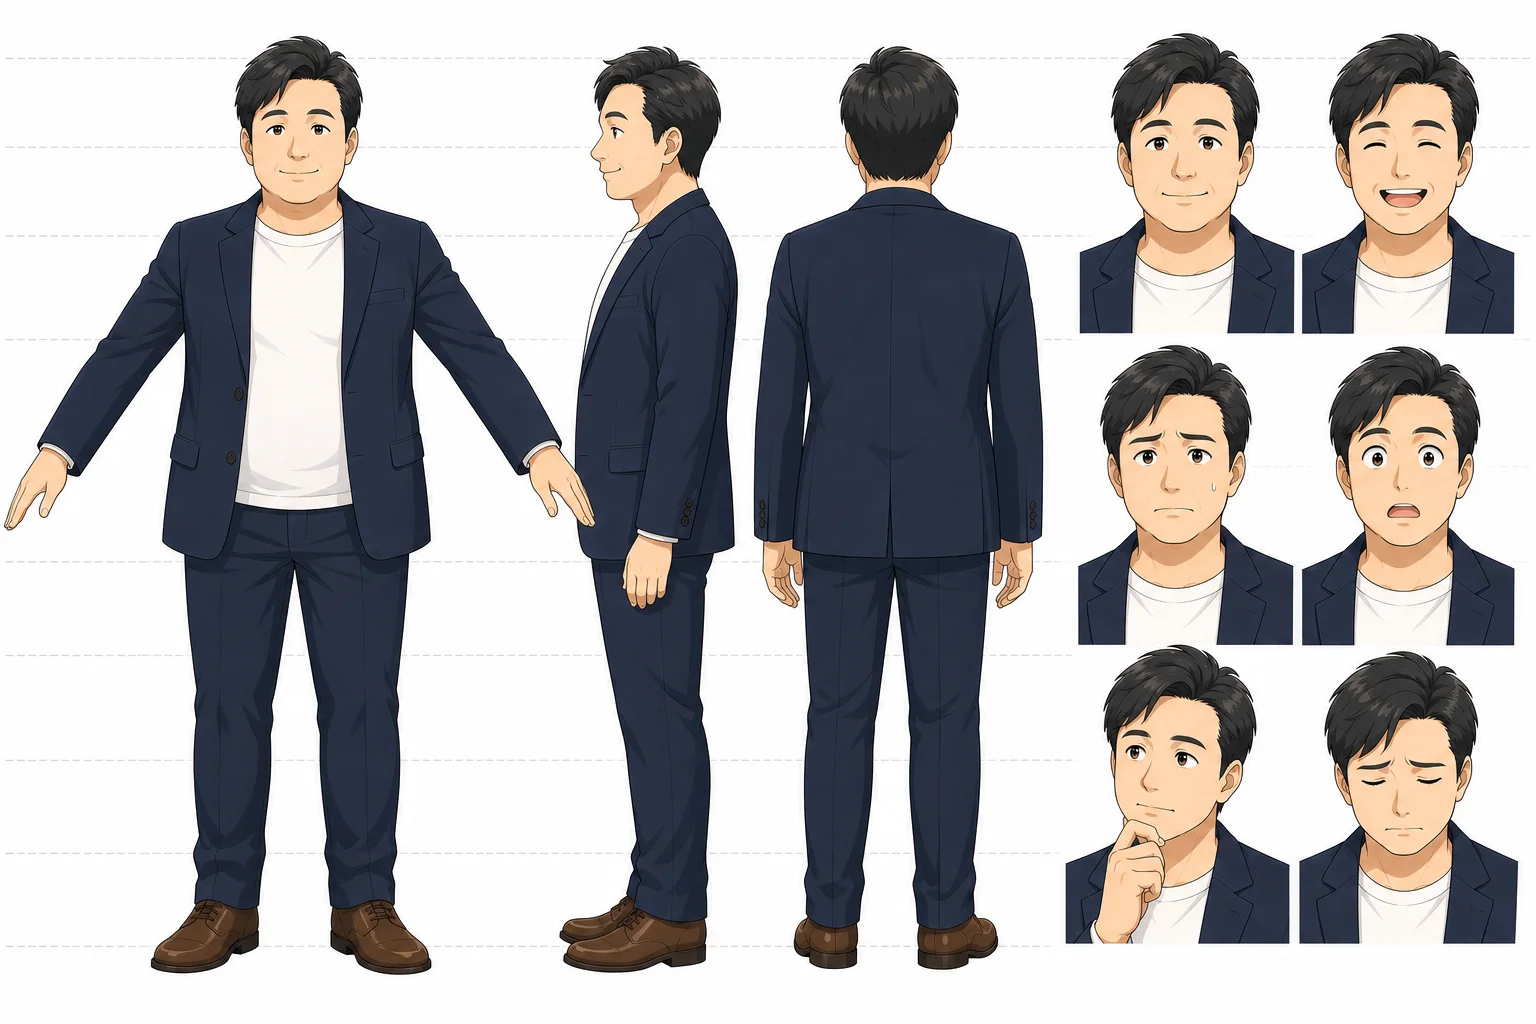
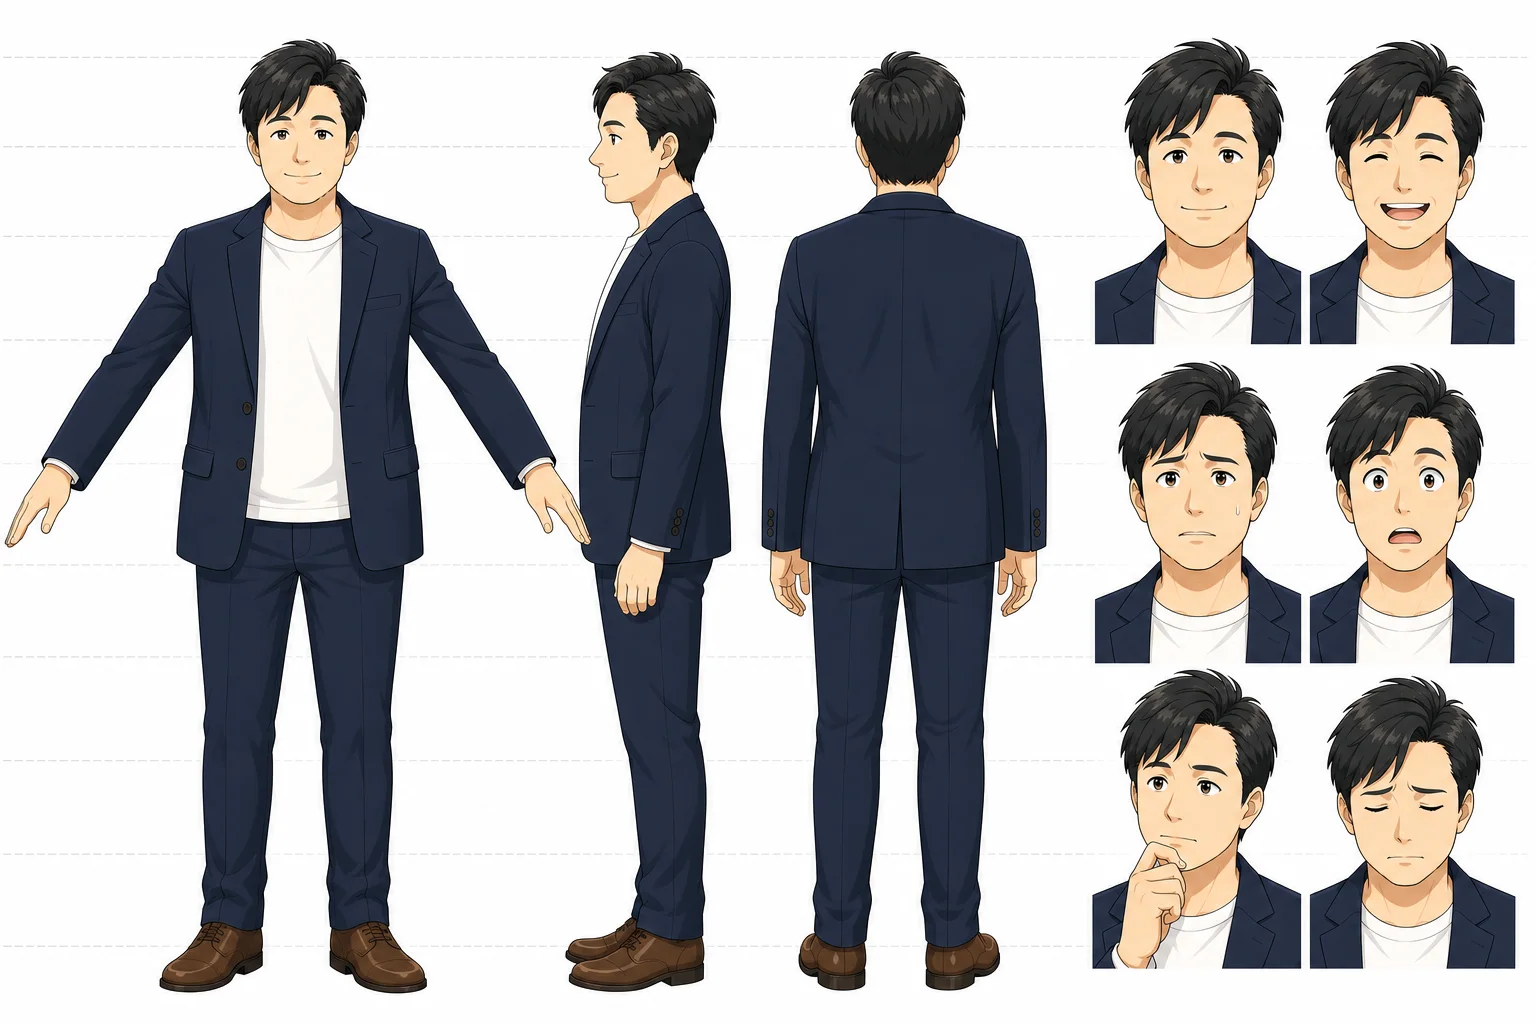
content(松井社長): 体は そのままに、顔だけ 気持ち やわらかくする
ユーザーの 直し:「あくまで 気持ちだけ。本物の 写真を よく見て もう一度」。

参考写真を 拡大して 見直した。実物は **体は 普通で、やわらかいのは 顔**である。
前の 版は 胸と 腰を 太らせていたので、そこを 戻した。

- 体 …「肩も 腰も 普通。**広くしない・がっしりさせない**」と 明記
- 顔 … ほおを ほんの 少し 丸く。あごを ほんの 少し やわらかく
       （二重あごは 作らない・ふっくらさせない）
- 写真に 合わせて、前髪を **おでこに かかる**形へ。目は 細めの 一重、
  まゆは まっすぐで うすく、鼻は 小さく 丸い先

松井社長は まんが・シナリオの 絵には 出ていないので、撮り直しは 人物カードの
設定画 1枚だけで 足りる（`grep 松井 content/` で 確認ずみ）。

diff --git a/src/content/git-contents.generated.ts b/src/content/git-contents.generated.ts
@@ -21,7 +21,7 @@ export const GIT_CONTENTS: readonly unknown[] = [
   // content/characters/hendy.json
   {"kind":"character","id":"hendy","name":"ヘンディ","reading":"へんでぃ","role":"先輩エンジニア（PM兼プログラマー・チームの相談役）","looks":"Japanese-style anime character, man in his late twenties, slim build, about 175cm, relaxed upright posture. Short black hair, slightly tousled with soft spiky tips and a loose fringe. Dark brown eyes, straight thick eyebrows, clean-shaven, gentle smile. Business suit: navy single-breasted two-button jacket (#2A3550) worn open or buttoned, crisp white dress shirt, solid navy necktie (#233A63), matching navy slacks (#2E3A57), black leather belt, black leather lace-up oxford shoes. No lanyard, no bag, no glasses.","personality":"真面目で おだやかです。人の 話を さいごまで ききます。好奇心が つよく、新しい ことを たのしみます。教えるときは まず ほめてから、つぎに することを 1つだけ 言います。","sheet":{"src":"/img/characters/hendy/sheet.webp","prompt":"ユーザー提供のキャラクター設定シート（正面全身・三面図・側面・表情4カット・服装・カラーパレット）をwebpにしたもの。生成物ではないのでプロンプトは無い。日本語のラベルが入っているが、参照入力としては問題ない。","refs":["/img/characters/hendy/reference.png"],"status":"done"},"references":["/img/characters/hendy/reference.png"],"voice":"Puck","mouth":{"closed":"/img/characters/hendy/mouth/closed.webp","a":"/img/characters/hendy/mouth/a.webp","i":"/img/characters/hendy/mouth/i.webp","u":"/img/characters/hendy/mouth/u.webp","e":"/img/characters/hendy/mouth/e.webp","o":"/img/characters/hendy/mouth/o.webp"}},
   // content/characters/matsui.json
-  {"kind":"character","id":"matsui","name":"松井","reading":"まつい","role":"社長（代表取締役社長）","looks":"Japanese-style anime character, man in his forties, comfortably built with a gentle middle-aged fullness through the chest and waist — clearly rounder than slim, but nowhere near heavy — calm confident posture. Black hair with volume on top and a soft side-swept fringe. Fair skin, oval face with full rounded cheeks and a soft jawline, dark brown eyes, straight eyebrows, gentle friendly closed-lip smile. Outfit: navy single-breasted blazer (#1F2A44) worn open over a plain white crew-neck T-shirt, dark navy trousers, brown leather shoes. No tie, no glasses.","personality":"2018年に この 会社を 作りました。カンボジアと 日本を つなぐ プログラムを 自分で はじめた 人です。「世界中に すごい 人が いる」と しんじて います。学生とも 直接 会って 話します。大きな 目標を たのしそうに 話します。","sheet":{"prompt":"A character model sheet for a Japanese language-learning manga.\nLayout: front view (full body, T-pose) on the left, right side view and back view next to it,\nand a column of 6 bust-up facial expressions on the right\n(neutral, smiling, worried, surprised, thinking, apologetic).\nWhite background. Light grid lines overlay to keep eye level consistent across views.\nCharacter: 社長（代表取締役社長） — Japanese-style anime character, man in his forties, comfortably built with a gentle middle-aged fullness through the chest and waist — clearly rounder than slim, but nowhere near heavy — calm confident posture. Black hair with volume on top and a soft side-swept fringe. Fair skin, oval face with full rounded cheeks and a soft jawline, dark brown eyes, straight eyebrows, gentle friendly closed-lip smile. Outfit: navy single-breasted blazer (#1F2A44) worn open over a plain white crew-neck T-shirt, dark navy trousers, brown leather shoes. No tie, no glasses.\nPersonality (affects posture and expression): 2018年に この 会社を 作りました。カンボジアと 日本を つなぐ プログラムを 自分で はじめた 人です。「世界中に すごい 人が いる」と しんじて います。学生とも 直接 会って 話します。大きな 目標を たのしそうに 話します。\nStyle: clean modern Japanese manga / anime style, soft cel shading, bright friendly palette, rounded shapes, no harsh shadows, office and school settings, contemporary Japan.\nAvoid: no text, no letters, no kanji, no kana, no numbers anywhere in the image, speech balloons must be completely EMPTY (white inside, no writing), no watermark, no signature, no logo, no frame border, no six fingers, no extra limbs, no costume changes between panels, no duplicate faces of the same character in one panel.\nDo NOT write the character's name or any label on the sheet.","refs":["/img/characters/matsui/reference.jpg"],"status":"done","src":"/img/characters/matsui/sheet.webp"},"references":["/img/characters/matsui/reference.jpg"]},
+  {"kind":"character","id":"matsui","name":"松井","reading":"まつい","role":"社長（代表取締役社長）","looks":"Japanese-style anime character, man in his forties, ordinary build with normal shoulders and a normal waist — do NOT broaden the body, do NOT make him stout. Calm confident posture. Black hair with volume on top and a soft fringe falling across the forehead. Fair skin, oval face that is just a touch soft: gently rounded cheeks and a slightly soft jawline, only a hint fuller than slim — not chubby, no double chin. Narrow gentle eyes with single-fold lids, straight sparse eyebrows, a small rounded nose, gentle friendly closed-lip smile. Outfit: navy single-breasted blazer (#1F2A44) worn open over a plain white crew-neck T-shirt, dark navy trousers, brown leather shoes. No tie, no glasses.","personality":"2018年に この 会社を 作りました。カンボジアと 日本を つなぐ プログラムを 自分で はじめた 人です。「世界中に すごい 人が いる」と しんじて います。学生とも 直接 会って 話します。大きな 目標を たのしそうに 話します。","sheet":{"prompt":"A character model sheet for a Japanese language-learning manga.\nLayout: front view (full body, T-pose) on the left, right side view and back view next to it,\nand a column of 6 bust-up facial expressions on the right\n(neutral, smiling, worried, surprised, thinking, apologetic).\nWhite background. Light grid lines overlay to keep eye level consistent across views.\nCharacter: 社長（代表取締役社長） — Japanese-style anime character, man in his forties, ordinary build with normal shoulders and a normal waist — do NOT broaden the body, do NOT make him stout. Calm confident posture. Black hair with volume on top and a soft fringe falling across the forehead. Fair skin, oval face that is just a touch soft: gently rounded cheeks and a slightly soft jawline, only a hint fuller than slim — not chubby, no double chin. Narrow gentle eyes with single-fold lids, straight sparse eyebrows, a small rounded nose, gentle friendly closed-lip smile. Outfit: navy single-breasted blazer (#1F2A44) worn open over a plain white crew-neck T-shirt, dark navy trousers, brown leather shoes. No tie, no glasses.\nPersonality (affects posture and expression): 2018年に この 会社を 作りました。カンボジアと 日本を つなぐ プログラムを 自分で はじめた 人です。「世界中に すごい 人が いる」と しんじて います。学生とも 直接 会って 話します。大きな 目標を たのしそうに 話します。\nStyle: clean modern Japanese manga / anime style, soft cel shading, bright friendly palette, rounded shapes, no harsh shadows, office and school settings, contemporary Japan.\nAvoid: no text, no letters, no kanji, no kana, no numbers anywhere in the image, speech balloons must be completely EMPTY (white inside, no writing), no watermark, no signature, no logo, no frame border, no six fingers, no extra limbs, no costume changes between panels, no duplicate faces of the same character in one panel.\nDo NOT write the character's name or any label on the sheet.","refs":["/img/characters/matsui/reference.jpg"],"status":"done","src":"/img/characters/matsui/sheet.webp"},"references":["/img/characters/matsui/reference.jpg"]},
   // content/characters/nishida.json
   {"kind":"character","id":"nishida","name":"西田","reading":"にしだ","role":"事務","looks":"Japanese-style anime character, woman in her mid twenties, slim, gentle posture. Long light-brown hair falling past the shoulders with a soft straight fringe. Fair skin, dark brown eyes, warm closed-lip smile. Outfit: cream-white chunky-knit turtleneck sweater (#F0E6D2), beige wide trousers, white shoes. No glasses.","personality":"会社の じむの しごとを して います。出勤は 週2日で、ほかは 家で はたらきます。しずかで ていねいです。こまかい ところに よく 気が つきます。","sheet":{"prompt":"A character model sheet for a Japanese language-learning manga.\nLayout: front view (full body, T-pose) on the left, right side view and back view next to it,\nand a column of 6 bust-up facial expressions on the right\n(neutral, smiling, worried, surprised, thinking, apologetic).\nWhite background. Light grid lines overlay to keep eye level consistent across views.\nCharacter: 社員 — Japanese-style anime character, woman in her mid twenties, slim, gentle posture. Long light-brown hair falling past the shoulders with a soft straight fringe. Fair skin, dark brown eyes, warm closed-lip smile. Outfit: cream-white chunky-knit turtleneck sweater (#F0E6D2), beige wide trousers, white shoes. No glasses.\nPersonality (affects posture and expression): しずかで ていねいです。こまかい ところに よく 気が つきます。\nStyle: clean modern Japanese manga / anime style, soft cel shading, bright friendly palette, rounded shapes, no harsh shadows, office and school settings, contemporary Japan.\nAvoid: no text, no letters, no kanji, no kana, no numbers anywhere in the image, speech balloons must be completely EMPTY (white inside, no writing), no watermark, no signature, no logo, no frame border, no six fingers, no extra limbs, no costume changes between panels, no duplicate faces of the same character in one panel.\nDo NOT write the character's name or any label on the sheet.","refs":["/img/characters/nishida/reference.jpg"],"status":"done","src":"/img/characters/nishida/sheet.webp"},"references":["/img/characters/nishida/reference.jpg"]},
   // content/characters/nyam.json
